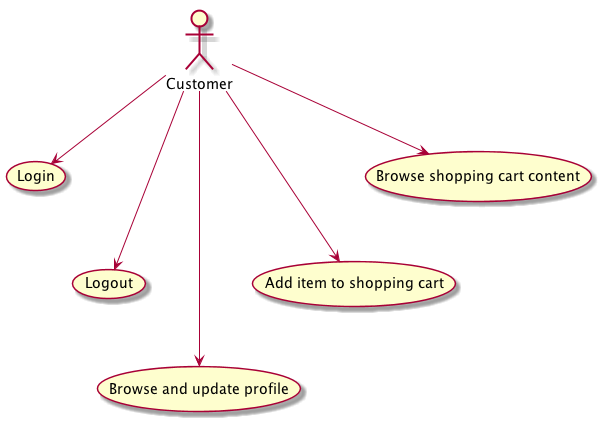
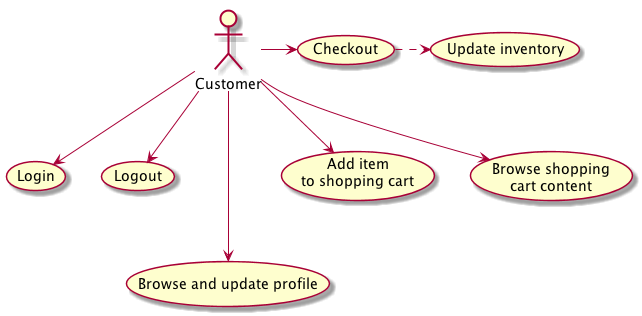
Adding PlantUML diagram in readme

diff --git a/README.md b/README.md
@@ -6,13 +6,27 @@ The idea of the talk and the code, is to slowly build an entire microservice arc
 
 Its genesis comes from the [Tomitribe](http://www.tomitribe.com/) talk: [Microprofile JCache](https://github.com/tomitribe/microprofile-jcache)
 
+## Use cases
+
+### Anonymous user
+
+Anybody can browse the catalog of CDs, Books and DVDs.
+
+![Anonymous user use-case](usecase-anonym.png)
+
+### Customers
+
+Once logged-in, an anonymous user becomes a customer. A customer can add, remove, browse and check-out the items of his/her shopping cart. The customer can also change his/her profile. Each time items are sold, the inventory is updated.
+
+![Customer use-case](usecase-customer.png)
+
+### Administrators
+
+Administrators can create, update, delete items (CDs, DVDs, Books). A new item needs a number (ISBN, UPC, EAN or GS1). Each time an items is created of deleted, the inventory is updated.
+
+![Administrator use-case](usecase-admin.png)
+
 ## Architecture 
-
-### Use cases
-
-![Anonymous user use-case](usecase-admin.png)
-![Customer use-case](usecase-anonym.png)
-![Administrator use-case](usecase-customer.png)
 
 ### Technology used
 
